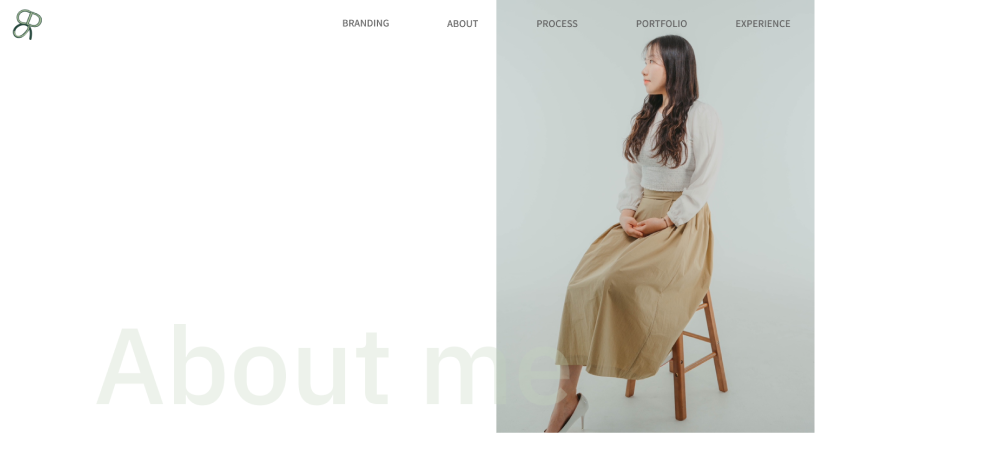
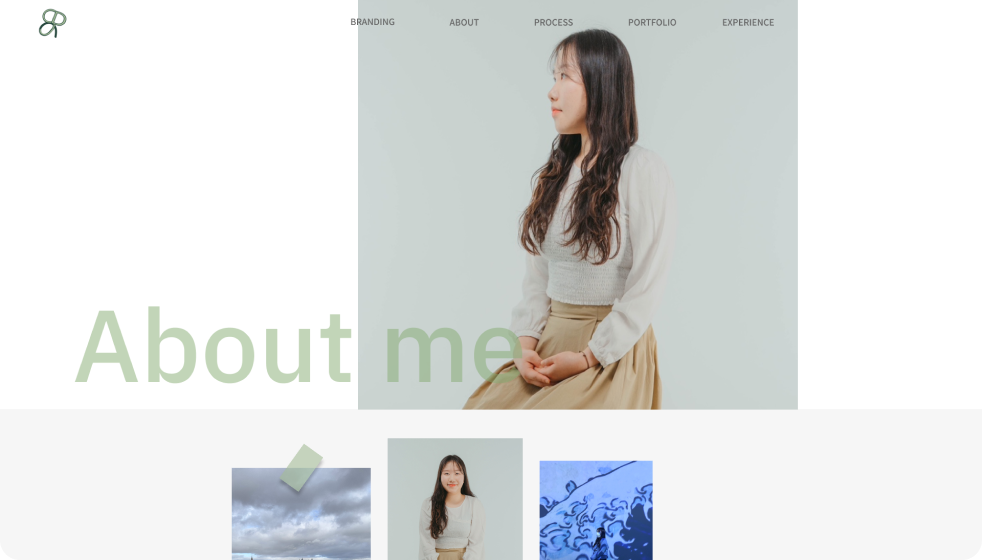
0507

diff --git a/css/style.css b/css/style.css
@@ -750,6 +750,9 @@ header .header_box .clover_img {
     top: 109px;
     z-index: 10;
 }
+.about_page .about1_img img {
+    height: 480px;
+}
 .about_page .about_box2 {
     position: absolute;
     left: 1607px;
